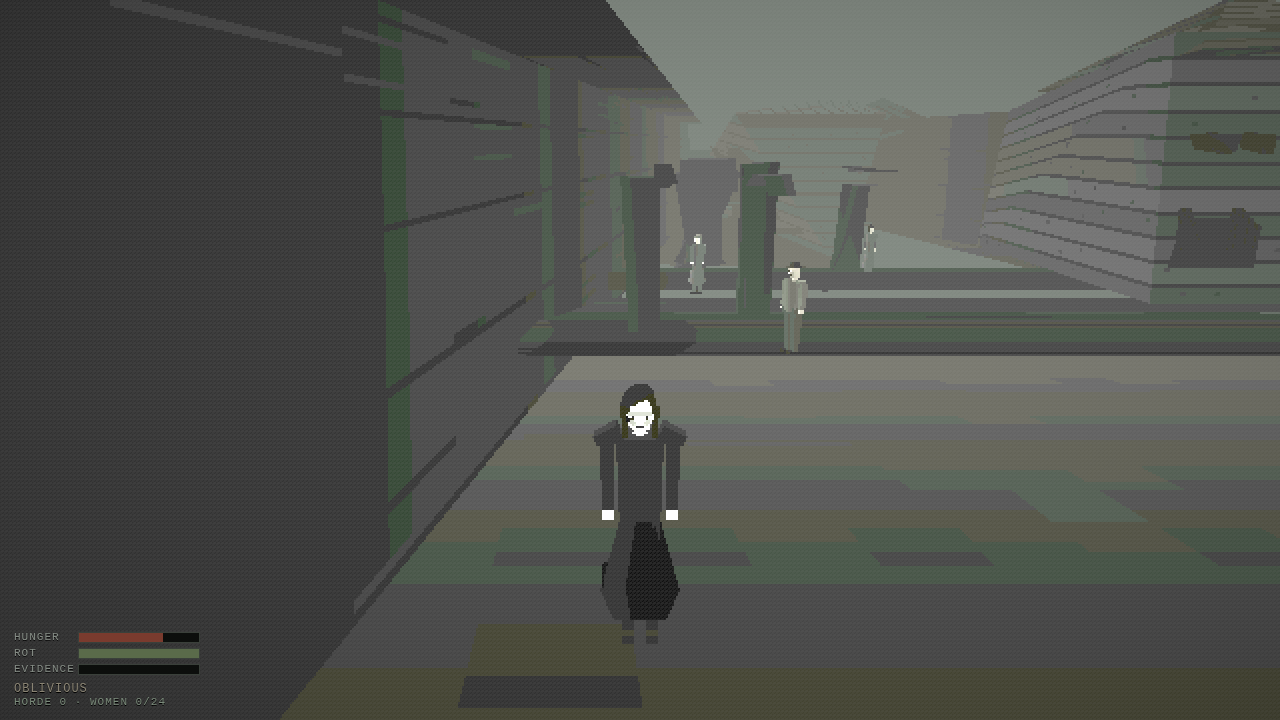
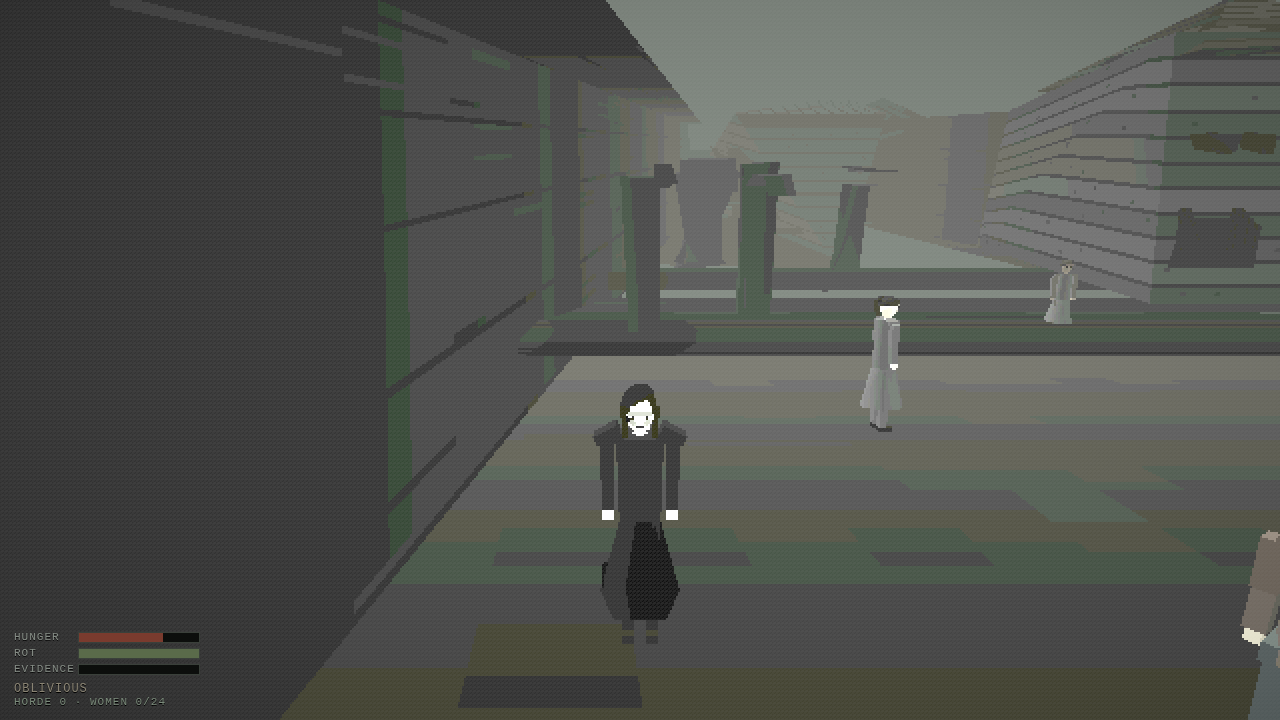
smoothing: flee-turned at all stages, flee-player gated to stage>=1, convertSpeed 1.0, pacing sim autopilot (?sim=fast), perf harness merged

diff --git a/src/main.js b/src/main.js
@@ -27,6 +27,13 @@ const renderer = await createRenderer(canvas);
 const jitterParam = new URLSearchParams(location.search).get('jitter');
 setJitter(jitterParam === 'strong' ? 1 / 60 : jitterParam === 'off' ? 0 : CFG.render.snapVertex);
 
+// --- pacing simulation (?sim / ?sim=fast) -------------------------------------
+// ?sim=fast scales game dt by 10 and loads the autopilot (src/game/sim.js),
+// which drives the player through the real input path and logs '[SIM]' pacing
+// milestones. window.__sim exposes hooks for external driving/inspection.
+const simParam = new URLSearchParams(location.search).get('sim');
+const SIM_DT = simParam === 'fast' ? 10 : simParam !== null ? 1 : 0;
+
 // --- perf harness (?perf=1) ---------------------------------------------------
 // Ring buffer of the last 600 frame deltas + per-system ms timings, exposed as
 // window.__perf for scripts/perf.mjs. AI think bodies (residents / horde /
@@ -166,7 +173,7 @@ const dismember = createDismember(scene, gore);
 const takeDirector = createTakeDirector(camera, player);
 const residents = createResidents(scene, town, CFG, (r) => {
   // witness hook — escalation wave will use this
-});
+}, gameState);
 gameState.state.womenTotal = residents.list.filter((r) => r.role === 'woman').length;
 
 const audio = await createAudio().catch(() => null); // non-fatal if fetch fails
@@ -186,6 +193,25 @@ const flow = createFlow(document.getElementById('hud'), gameState);
 // input
 const input = createInput(canvas, document.getElementById('touch-ui'));
 
+// pacing autopilot + external hooks (only with ?sim)
+let simDriver = null;
+if (simParam !== null) {
+  const { createSimDriver } = await import('./game/sim.js');
+  simDriver = createSimDriver({
+    player, residents, gameState, interactions, takeDirector, input, town, CFG,
+    steer: (yaw) => { camYaw = yaw; },
+  });
+  window.__sim = {
+    player, residents, gameState, interactions, takeDirector, town, camera, CFG,
+    state: () => ({ ...gameState.state }),
+    teleport: (x, z) => {
+      if (isBlocked(town.navGrid, town.gridSize, town.origin, town.cellSize, x, z)) return false;
+      player.position.x = x; player.position.z = z; return true;
+    },
+    interact: () => interactions.tryInteract(),
+  };
+}
+
 // third-person camera state
 let camYaw = Math.PI;
 let camPitch = -0.22;
@@ -196,26 +222,34 @@ const post = createPostPipeline(renderer, scene, camera);
 const clock = new THREE.Clock();
 let walkPhase = 0;
 
-renderer.setAnimationLoop(() => {
-  const dt = Math.min(clock.getDelta(), 0.05);
+const frame = (render = true) => {
+  let dt = Math.min(clock.getDelta(), 0.05);
+  if (SIM_DT > 1) dt *= SIM_DT; // ?sim=fast: 10x game-time for pacing runs
   if (PERF) perfFrameStart();
 
   let _t = PERF ? performance.now() : 0; // update-total start (excludes render)
 
   gameState.tick(dt);
+  // autopilot runs before the movement block: it writes input.move/sprint and
+  // camYaw, which the block below consumes this frame (input.update() at frame
+  // end would otherwise clear them first)
+  if (simDriver) simDriver.update(dt);
 
   if (!takeDirector.busy && !gameState.state.over && flow.started) {
     // look
     camYaw -= input.look.dx * 0.0032;
     camPitch = THREE.MathUtils.clamp(camPitch - input.look.dy * 0.0028, -0.9, 0.35);
 
-    // move (camera-relative)
+    // move (camera-relative). Basis: forward = (sin,cos), right = (cos,-sin);
+    // world = right*mv.x + forward*(-mv.y) — mv.y = -1 is "W" / stick-up.
+    // (dz previously had both signs flipped: W walked backward at camYaw=0
+    //  and strafe was mirrored — movement was wrong at every diagonal.)
     const mv = input.move;
     const spd = CFG.player.speed * (input.sprint ? CFG.player.sprintMul : 1);
     if (mv.x !== 0 || mv.y !== 0) {
       const sin = Math.sin(camYaw), cos = Math.cos(camYaw);
       const dx = (mv.x * cos - mv.y * sin) * spd * dt;
-      const dz = (mv.x * sin + mv.y * cos) * spd * dt;
+      const dz = (-mv.x * sin - mv.y * cos) * spd * dt;
       const nx = player.position.x + dx;
       const nz = player.position.z + dz;
       if (!isBlocked(town.navGrid, town.gridSize, town.origin, town.cellSize, nx, player.position.z)) player.position.x = nx;
@@ -260,8 +294,8 @@ renderer.setAnimationLoop(() => {
   hud.setPrompt(takeDirector.busy ? null : interactions.currentTarget);
   if (PERF) { const a = performance.now(); residents.update(dt, player.position); perfRecord(PERF.systems.residents, performance.now() - a); }
   else residents.update(dt, player.position);
-  if (PERF) { const a = performance.now(); horde.update(dt); perfRecord(PERF.systems.horde, performance.now() - a); }
-  else horde.update(dt);
+  if (PERF) { const a = performance.now(); horde.update(dt, player.position); perfRecord(PERF.systems.horde, performance.now() - a); }
+  else horde.update(dt, player.position);
   if (PERF) { const a = performance.now(); escalation.update(dt); perfRecord(PERF.systems.escalation, performance.now() - a); }
   else escalation.update(dt);
   audioDirector.update(dt);
@@ -273,6 +307,18 @@ renderer.setAnimationLoop(() => {
   input.update();
   if (PERF) perfRecord(PERF.systems.update, performance.now() - _t);
 
+  if (!render) return; // sim fast-forward: most ticks skip pixels entirely
   if (PERF) { const a = performance.now(); post.render(); perfRecord(PERF.systems.render, performance.now() - a); }
   else post.render();
-});
+};
+
+if (simParam !== null) {
+  // pacing sim: rAF does NOT advance under --virtual-time-budget in new
+  // headless Chrome, but setTimeout chains fast-forward perfectly. Drive the
+  // loop with 16ms timers; render 1 tick in 30 (pacing needs state, not pixels).
+  let n = 0;
+  const step = () => { frame(++n % 30 === 0); setTimeout(step, 16); };
+  step();
+} else {
+  renderer.setAnimationLoop(() => frame(true));
+}

diff --git a/src/game/sim.js b/src/game/sim.js
@@ -1,0 +1,144 @@
+// Pacing autopilot — loaded only when ?sim is present (see main.js).
+// Drives the player through the REAL input/movement path: steers camYaw at the
+// current target and holds "W" (move.y = -1), fires interactions.tryInteract()
+// in range. Teleports only as an unstick fallback (logged, so pacing numbers
+// can be discounted if it ever fires often).
+//
+// Policy approximates a competent player:
+//   hunger < 55  → hunt nearest living man/pallbearer (kill feeds + heals rot)
+//   otherwise    → hunt nearest living woman (kiss converts, grows the horde)
+// Milestones are logged as '[SIM] {json}' console lines for scripts/sim.mjs.
+import { isBlocked } from '../world/town.js';
+
+const LOG_EVERY = 30;        // periodic status line, seconds of game time
+const STUCK_SEC = 1.2;       // game-time without progress before a teleport
+
+export function createSimDriver({ player, residents, gameState, interactions, takeDirector, input, town, CFG, steer }) {
+  const list = residents.list;
+  const isLiving = (r) => r.state === 'idle' || r.state === 'walk' || r.state === 'flee';
+  const blockedAt = (x, z) => isBlocked(town.navGrid, town.gridSize, town.origin, town.cellSize, x, z);
+
+  let target = null;
+  let stuckT = 0;
+  let lastX = player.position.x, lastZ = player.position.z;
+  let statusT = LOG_EVERY;
+  let teleports = 0;
+  let prevStage = -1, prevConverted = 0, prevDead = 0, prevHordePeak = 0;
+  let done = false;
+  const t0marks = {};
+
+  const log = (what, extra = {}) =>
+    console.log('[SIM] ' + JSON.stringify({ what, t: +gameState.state.time.toFixed(1), ...extra }));
+
+  const nearest = (pred) => {
+    let best = null, bd2 = Infinity;
+    const px = player.position.x, pz = player.position.z;
+    for (const r of list) {
+      if (!pred(r)) continue;
+      const dx = r.group.position.x - px, dz = r.group.position.z - pz;
+      const d2 = dx * dx + dz * dz;
+      if (d2 < bd2) { bd2 = d2; best = r; }
+    }
+    return best;
+  };
+
+  // walkable spot within ~1m of the target, for unstick teleports
+  const teleportNear = (r) => {
+    const tp = r.group.position;
+    for (let i = 0; i < 10; i++) {
+      const a = Math.random() * Math.PI * 2;
+      const d = 0.6 + Math.random() * 0.8;
+      const x = tp.x + Math.sin(a) * d, z = tp.z + Math.cos(a) * d;
+      if (!blockedAt(x, z)) {
+        player.position.x = x; player.position.z = z;
+        teleports++;
+        log('teleport', { n: teleports });
+        return true;
+      }
+    }
+    return false;
+  };
+
+  function update(dt) {
+    const s = gameState.state;
+
+    // --- milestone edges ---
+    if (s.stage !== prevStage) { log('stage', { stage: s.stage }); prevStage = s.stage; }
+    if (s.womenConverted > prevConverted) {
+      prevConverted = s.womenConverted;
+      if (prevConverted === 1) log('firstConvert');
+      if (prevConverted === s.womenTotal) log('allWomen');
+    }
+    let dead = 0;
+    for (const r of list) if (r.state === 'dead') dead++;
+    if (dead > prevDead) {
+      prevDead = dead;
+      if (dead === 1) log('firstKill');
+    }
+    if (s.hordeSize > prevHordePeak) prevHordePeak = s.hordeSize;
+
+    if (s.over && !done) {
+      done = true;
+      log('result', {
+        over: s.over, hunger: +s.hunger.toFixed(1), rot: +s.rot.toFixed(1),
+        evidence: s.evidence, horde: s.hordeSize, hordePeak: prevHordePeak,
+        women: s.womenConverted + '/' + s.womenTotal, dead, teleports,
+      });
+      return;
+    }
+    if (done) return;
+
+    // --- periodic status ---
+    statusT -= dt;
+    if (statusT <= 0) {
+      statusT += LOG_EVERY;
+      log('status', {
+        hunger: +s.hunger.toFixed(0), rot: +s.rot.toFixed(0), ev: s.evidence,
+        stage: s.stage, horde: s.hordeSize, women: s.womenConverted, dead,
+      });
+    }
+
+    // --- steering ---
+    if (takeDirector.busy) { input.move.x = 0; input.move.y = 0; return; }
+
+    if (!target || !isLiving(target)) {
+      // re-pick: feed when hungry, otherwise grow the lineage
+      target = s.hunger < 55
+        ? nearest((r) => isLiving(r) && r.role !== 'woman')
+        : nearest((r) => isLiving(r) && r.role === 'woman');
+      if (!target) { // no prey of that class left — take anything living
+        target = nearest(isLiving);
+        if (!target) { input.move.x = 0; input.move.y = 0; return; }
+      }
+      stuckT = 0;
+    }
+
+    const tp = target.group.position;
+    const dx = tp.x - player.position.x, dz = tp.z - player.position.z;
+    const dist = Math.hypot(dx, dz);
+
+    if (dist <= CFG.player.interactRange * 0.95) {
+      input.move.x = 0; input.move.y = 0;
+      interactions.tryInteract();
+      return;
+    }
+
+    // steer the camera yaw at the target and hold W (forward)
+    steer(Math.atan2(dx, dz));
+    input.move.x = 0;
+    input.move.y = -1;
+    input.sprint = dist > 10;
+
+    // unstick: no progress for STUCK_SEC of game time while trying to move
+    const moved = Math.hypot(player.position.x - lastX, player.position.z - lastZ);
+    lastX = player.position.x; lastZ = player.position.z;
+    if (moved < 0.1 * CFG.player.speed * dt) { // <10% of the expected step
+      stuckT += dt;
+      if (stuckT >= STUCK_SEC) { stuckT = 0; teleportNear(target); }
+    } else {
+      stuckT = 0;
+    }
+  }
+
+  return { update };
+}

diff --git a/src/game/residents.js b/src/game/residents.js
@@ -18,7 +18,7 @@ const FLEE_SEC = 3;
 const ARRIVE = 0.35;
 const WANDER_MAX = 12;         // meters
 
-export function createResidents(scene, town, CFG, onSeePlayer = null) {
+export function createResidents(scene, town, CFG, onSeePlayer = null, gameState = null) {
   const { navGrid, gridSize, origin, cellSize } = town;
   const N = CFG.town.residents;
   const N_PAL = CFG.town.pallbearers;
@@ -27,6 +27,7 @@ export function createResidents(scene, town, CFG, onSeePlayer = null) {
   const thinkInterval = 1 / CFG.npc.thinkHz;
   const walkSpeed = CFG.npc.walkSpeed;
   const fleeSpeed = CFG.npc.fleeSpeed;
+  const TURNED_FLEE_R2 = CFG.npc.turnedFleeRadius * CFG.npc.turnedFleeRadius;
 
   const blockedAt = (x, z) => isBlocked(navGrid, gridSize, origin, cellSize, x, z);
 
@@ -176,8 +177,35 @@ export function createResidents(scene, town, CFG, onSeePlayer = null) {
   const think = (r, playerPos) => {
     const pos = r.group.position;
 
-    // spot the player → flee (witness/escalation hooks arrive in a later wave)
-    if (playerPos && (r.state === 'idle' || r.state === 'walk')) {
+    // flee a TURNED resident closing in — at ANY stage. A pale shambling dead
+    // woman is not an "alertness" question (that's what the stage ladder gates);
+    // anyone runs from a corpse that walks up to them. This is also what keeps
+    // the horde's exponential in check: hunters (convertSpeed < walkSpeed) can
+    // only convert the cornered or the standing, so the snowball is a trickle
+    // until the player feeds it kisses. (Stage 3+ escalation adds a wider 6m
+    // net for the same behavior — screening — they compose without fighting.)
+    if (r.state === 'idle' || r.state === 'walk') {
+      for (let i = 0; i < list.length; i++) {
+        const o = list[i];
+        if (o.state !== 'turned') continue;
+        const odx = pos.x - o.group.position.x;
+        const odz = pos.z - o.group.position.z;
+        if (odx * odx + odz * odz < TURNED_FLEE_R2) {
+          r.state = 'flee';
+          r.speed = fleeSpeed;
+          r.fleeTimer = FLEE_SEC;
+          pickFleeTarget(r, odx, odz);
+          return;
+        }
+      }
+    }
+
+    // spot the player → flee. Gated on stage>=1: at stage 0 the town is
+    // OBLIVIOUS (per the escalation ladder) — nobody runs from a woman walking
+    // down the street. From suspicious on, her proximity reads wrong and they run.
+    // (Fleeing the TURNED is different — that's reflex, handled above at all stages.)
+    const townAlert = !gameState || gameState.state.stage >= 1;
+    if (playerPos && townAlert && (r.state === 'idle' || r.state === 'walk')) {
       const pdx = pos.x - playerPos.x;
       const pdz = pos.z - playerPos.z;
       if (pdx * pdx + pdz * pdz < FLEE_RADIUS2) {
@@ -203,8 +231,14 @@ export function createResidents(scene, town, CFG, onSeePlayer = null) {
       if (r.fleeTimer <= 0) {
         enterIdle(r);
       } else if (playerPos) {
-        // keep heading away from the player, re-jittered each think
-        pickFleeTarget(r, pos.x - playerPos.x, pos.z - playerPos.z);
+        // keep heading away from the player — but only while she's actually
+        // close. If she's moved off, leave the heading alone: escalation's
+        // flee-from-turned (stage 3+) may own this flight, and re-jittering
+        // away from a distant player here made residents zigzag between two
+        // threat sources every other think tick.
+        const pdx = pos.x - playerPos.x;
+        const pdz = pos.z - playerPos.z;
+        if (pdx * pdx + pdz * pdz < FLEE_RADIUS2 * 1.8) pickFleeTarget(r, pdx, pdz);
       }
     }
   };

diff --git a/src/game/escalation.js b/src/game/escalation.js
@@ -234,11 +234,10 @@ export function createEscalation({ residents, town, gameState, CFG, gore, player
     }
   };
 
-  // state.js exposes no public 'over' setter (checked) — mutate directly and
-  // poke its private emit through addEvidence(0) so listeners refresh.
+  // state.js owns run-end via endRun() (emits 'over' so flow.js shows the
+  // overlay) — direct state.over mutation would leave the overlay hidden.
   const endCordon = () => {
-    gameState.state.over = 'cordon';
-    gameState.addEvidence(0);
+    gameState.endRun('cordon');
   };
 
   // --- stage transitions (one-time setups; thresholds can jump) --------------

diff --git a/src/config.js b/src/config.js
@@ -61,7 +61,9 @@ export const CFG = {
     sightRange: 16,
     sightFovDeg: 100,
     thinkHz: 5,              // staggered AI updates — CPU budget
-    convertSpeed: 1.2,       // horde members seek victims
+    convertSpeed: 1.0,       // horde members seek victims (slower than a walker:
+                             // converts happen by cornering, not chasing down)
+    turnedFleeRadius: 4,     // living residents flee a turned closing within this
   },
   run: {
     targetMinutes: [20, 30],
